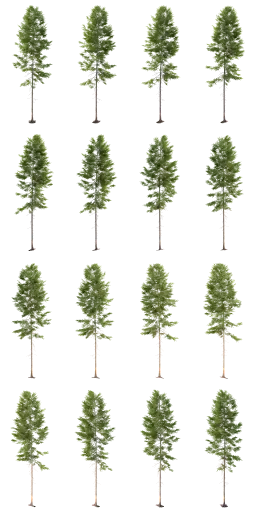
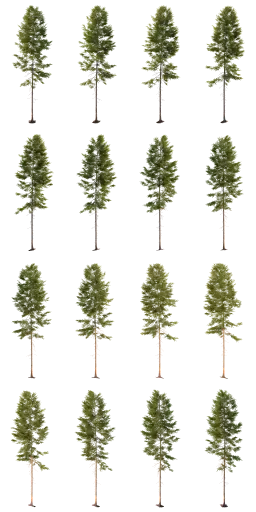
Trees: impostors rendered again under the new low warm sun (pnpm trees, 11.4 min on an M4); the court's corners get a clump of three (a second kind, smaller, further into the corner) instead of one thin tree; the frames lifted 1.3x (the scanned needles were the darkest thing in a sunny view), and th

diff --git a/js/scene/trees.js b/js/scene/trees.js
@@ -38,6 +38,9 @@ import { SUN_DIR } from "./environment.js";
 
 export const KINDS = /** @type {const} */ (["pine", "fir", "firb"]);
 
+/** Brightness over the baked frames' (see set). */
+const LIFT = 1.3;
+
 const VERT_PARS = /* glsl */ `
 uniform vec4 treeCard; // card width, height, centre height, crown radius: × the tree's height
 uniform vec2 treeFrames; // frames, columns
@@ -120,6 +123,10 @@ const FRAG_MAP = /* glsl */ `
     vec4 b = texture2D(map, vTreeB);
     float wa = a.a * (1.0 - vTreeW), wb = b.a * vTreeW;
     diffuseColor.rgb = (a.rgb * wa + b.rgb * wb) / max(wa + wb, 1e-4) * treeGain;
+    // the thin edges carry colour bled in from the foliage's mean (lighter
+    // than the needles at the rim): darkened by how little they cover, they
+    // stop drawing a pale outline round the crown
+    diffuseColor.rgb *= mix(0.75, 1.0, smoothstep(0.15, 0.75, wa + wb));
     #ifndef TREE_BAKE
     diffuseColor.rgb *= treeShade();
     #endif
@@ -241,7 +248,9 @@ export class Trees {
       const u = k.uniforms;
       u.treeCard.value.set(t.card[0] / t.tree, t.card[1] / t.tree, t.card[2] / t.tree, t.reach / t.tree);
       u.treeFrames.value.set(t.frames, t.cols);
-      u.treeGain.value = t.gain;
+      // the scanned needles are darker than a palace's old pines photograph:
+      // lifted a third, so a tree is not the darkest thing in a sunny view
+      u.treeGain.value = t.gain * LIFT;
       u.map.value = tex;
       for (const mat of [/** @type {THREE.MeshBasicMaterial} */ (k.mesh.material), k.mesh.userData.bakeMaterial]) mat.map = tex;
       k.mesh.count = k.n;

diff --git a/js/scene/courtyard.js b/js/scene/courtyard.js
@@ -701,11 +701,18 @@ function* layout(b, lite) {
     vat(b, s * 52, -120);
   }
   yield;
-  // pines in the corners of the court
+  // a clump of three in each corner of the court: the photographed trees are
+  // tall and bare low down, and one alone read thin close up; the two
+  // smaller ones stand further into the corner, crowns overlapping
   const r = rand(5);
   /** @type {[number, number, number, import("./trees.js").TreeKind][]} */
   const court = [[-50, 196, 40, "fir"], [52, 190, 44, "fir"], [-52, -112, 38, "pine"], [50, -108, 36, "fir"]];
-  for (const [x, z, h, kind] of court) tree(b, x, z, h, Math.floor(r() * 1e6), kind);
+  for (const [x, z, h, kind] of court) {
+    const sx = Math.sign(x), sz = Math.sign(z);
+    tree(b, x, z, h, Math.floor(r() * 1e6), kind);
+    tree(b, x + sx * 7, z + sz * 5, h * 0.82, Math.floor(r() * 1e6), kind === "pine" ? "firb" : "pine");
+    tree(b, x - sx * 2, z + sz * 10, h * 0.7, Math.floor(r() * 1e6), "firb");
+  }
   // beyond the walls: groves of one to three trees (the photographed trees
   // are slimmer than the old crowns were, and a card costs next to nothing)
   const outer = lite ? 18 : 40;
